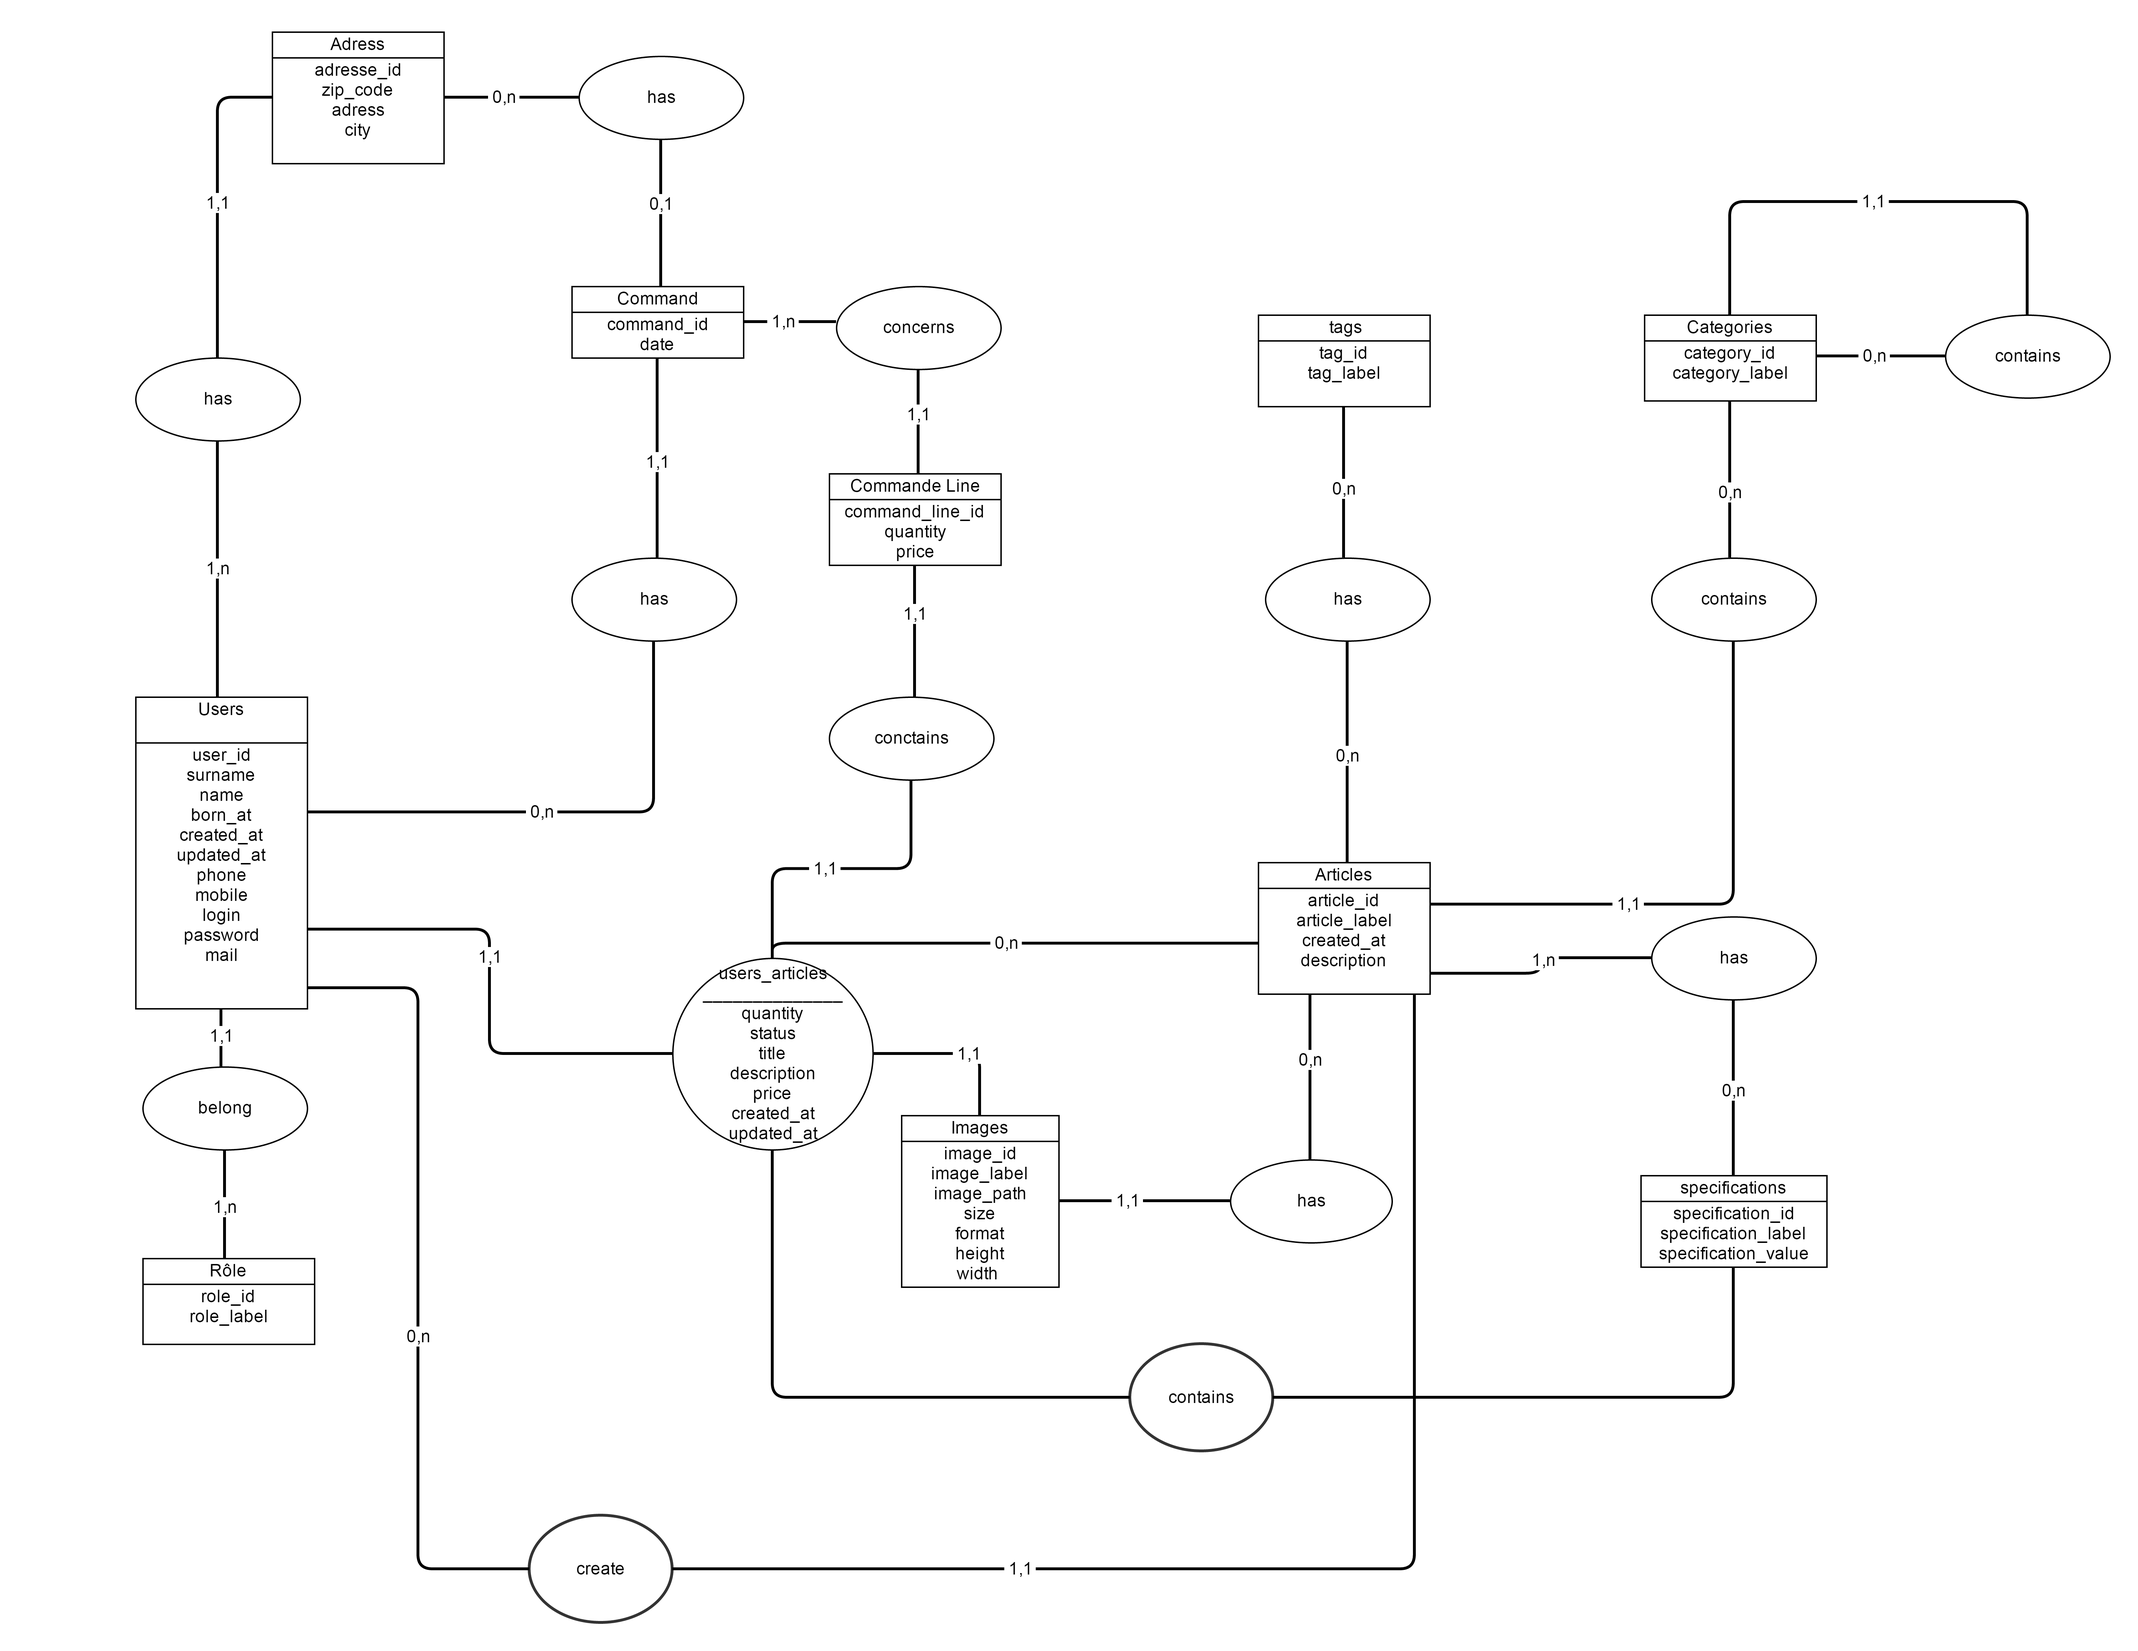
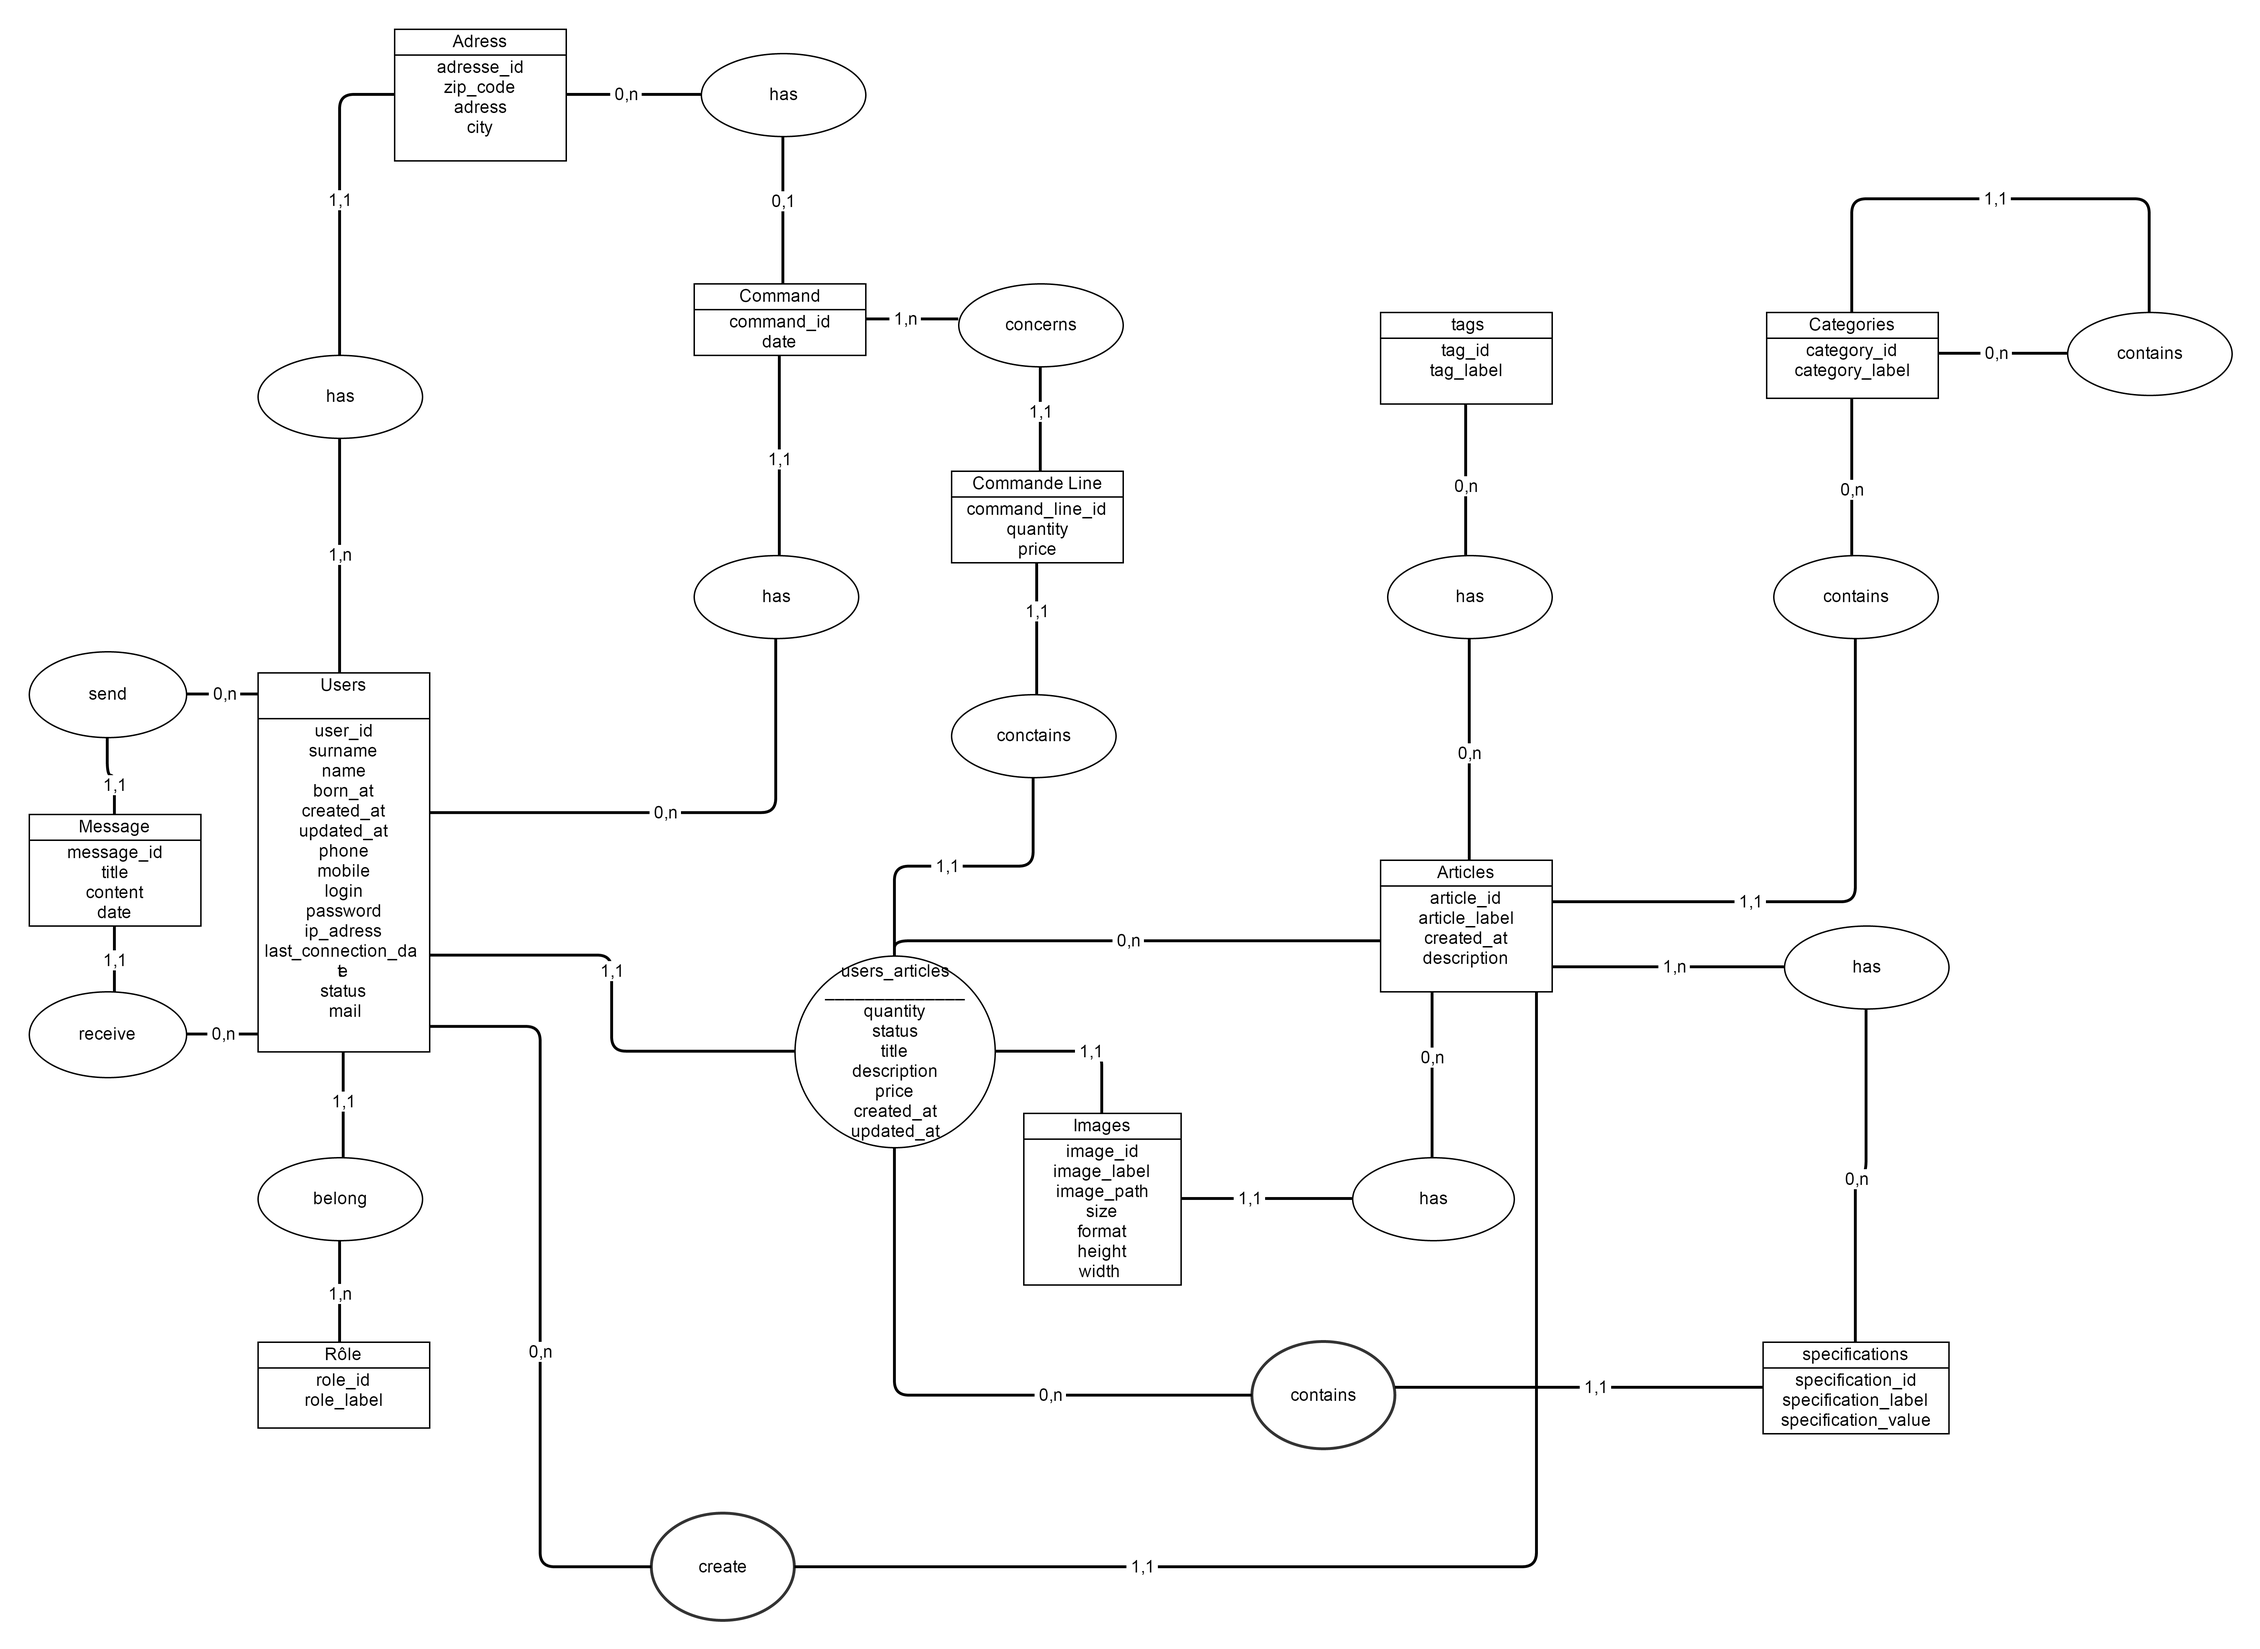
ajoute table message sql

diff --git a/assets/js/functions.js b/assets/js/functions.js
@@ -2,13 +2,14 @@
 $(function() {
 
     $(".add_article").click(function() {
-
+   
         var data = {"id_article": $(this).data('role')};
-        var nb_article = parseInt($("#panier span").html());
+        var nb_article = $("#panier span").html();
+        nb_article = parseInt(nb_article);
         var pathArray = window.location.pathname.split('/');
-
+          console.log(nb_article);
         $.post("/" + pathArray[1] + "/panier/add_article", data, function(result) {
-
+   
             $("#panier span").html(result);
             $("#panier span").animate({fontSize: "17px", color: "#AA0000"}, 500).animate({fontSize: "13px", color: "white"}, 300);
      

diff --git a/application/controllers/Articles.php b/application/controllers/Articles.php
@@ -68,7 +68,7 @@ class Articles extends Front_Controller {
                  $this->data['img'] = $this->data['img']['imsrc']; 
             }
             else{
-                $this->data['img'] = "<img src='".base_url()."assets/img/produit.jpg' width='250px' alt='image produit'/>";
+                $this->data['img'] = "<img src='".base_url()."assets/img/img_none.jpg' width='250px' alt='image produit'/>";
             }
             $this->data['view'] = "front/details_user_article";
         }
